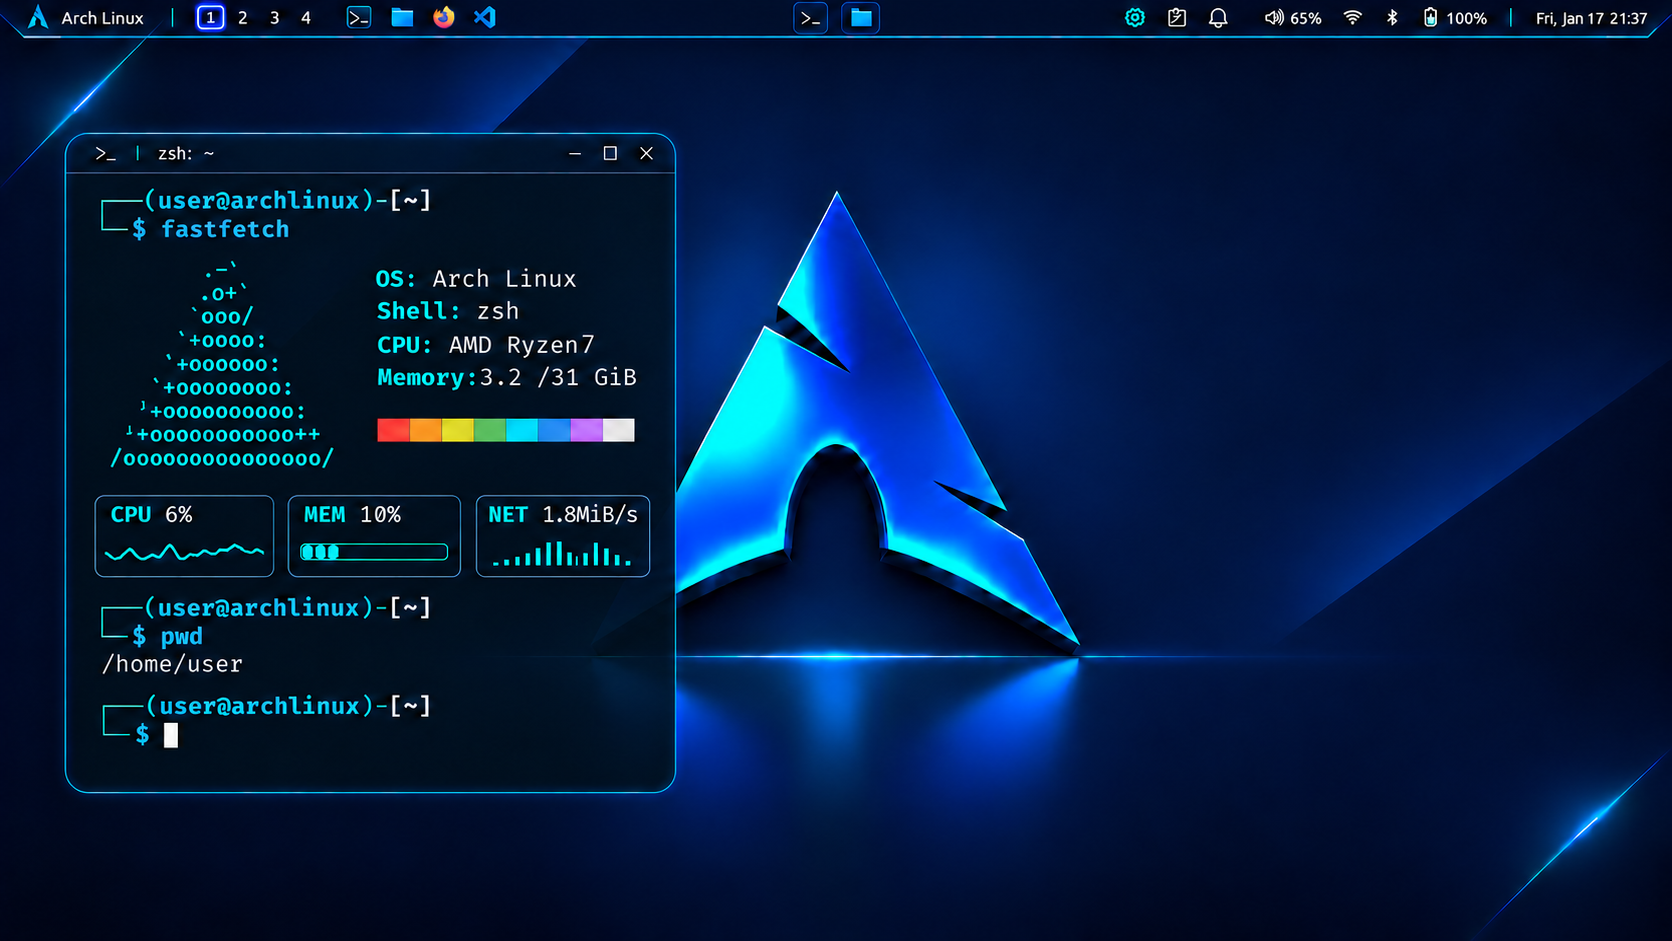
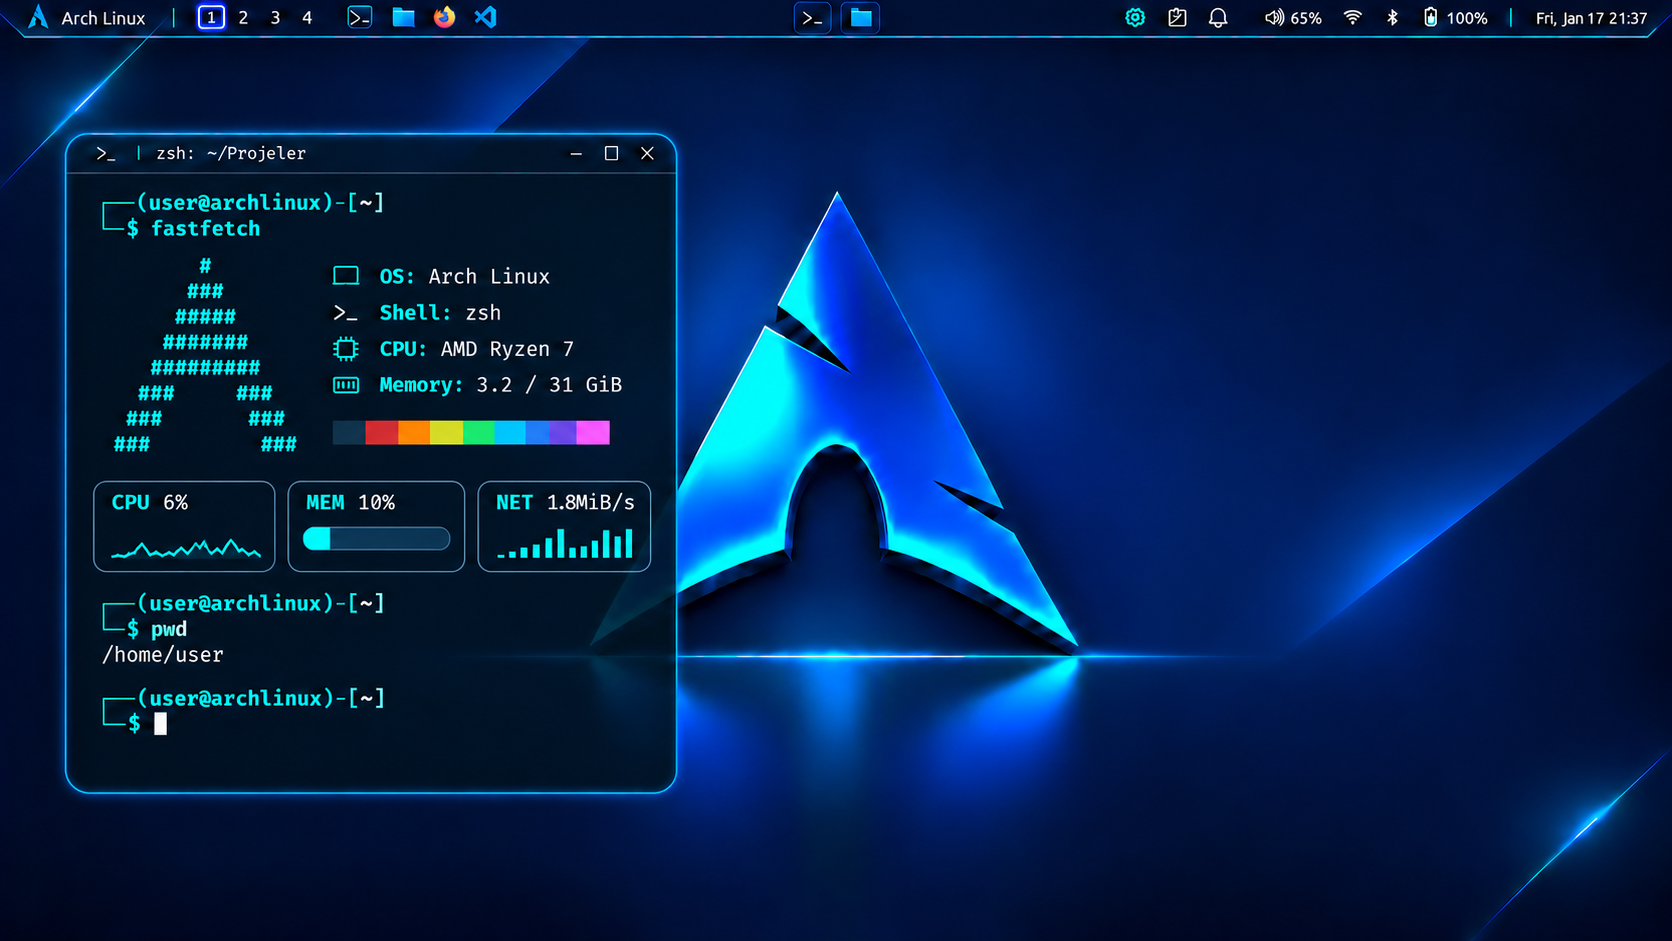
Match window frame lighting to approved reference

diff --git a/README.md b/README.md
@@ -2,7 +2,7 @@
 
 Koyu lacivert Arch masaüstü; üst görev çubuğu, Zsh terminali, Thunar, açılış ve kilit ekranı için onaylı tasarım ve kurulum tanımları.
 
-**Güncel sürüm: v1.0.1.** Güncel kaynak her zaman [`paket/`](paket/) dizinidir. Kurulumu hedef Arch Linux bilgisayarındaki Codex, gerçek masaüstü ve donanımı inceleyerek uygular. Bu repo, kurulumun tamamlandığını gösteren bir sistem imajı veya tek komutluk otomatik yükleyici değildir.
+**Güncel sürüm: v1.0.2.** Güncel kaynak her zaman [`paket/`](paket/) dizinidir. Kurulumu hedef Arch Linux bilgisayarındaki Codex, gerçek masaüstü ve donanımı inceleyerek uygular. Bu repo, kurulumun tamamlandığını gösteren bir sistem imajı veya tek komutluk otomatik yükleyici değildir.
 
 ![Terminal ve Thunar masaüstü önizlemesi](paket/02-onayli-masaustu.png)
 
@@ -22,7 +22,7 @@ Ardından bu klasörde Codex'e [`KURULUM.md`](KURULUM.md) ve `paket/` içindeki 
 
 ## Tasarım ve özellikler
 
-- Terminal ve Thunar: mevcut koyu lacivert zemin, **%80 zemin opaklığı**, tam opak yazı/simgeler ve her kenar/köşede hafif, eşit mavi çerçeve ışığı.
+- Terminal ve Thunar: mevcut koyu lacivert zemin, **%80 zemin opaklığı**, tam opak yazı/simgeler ve son seçilen Thunar görselindeki doygun mavi ince dış kontur ve dar/yumuşak, eşit ışık.
 - Terminal: Fira Code 10 pt, Zsh, iki satırlı dinamik dizin istemi, Kali temelli yazı/çıktı renkleri, geçmiş önerileri ve arama. İnce, yarı saydam, **üçgensiz** bölücüler ve bağımsız bölümler.
 - Üst panel: kesintisiz, tek renk mavi alt çizgi ve aynı mavi eğimli uçlar; beyaz kenar parlaması yok. Açık uygulamalar yalnız kendi simgeleriyle gösterilir, isim/başlık/yol yazılmaz. Dört çalışma alanı, pano geçmişi, bildirimler ve açılır sistem/batarya kutuları korunur. Donanım verileri gerçek ölçülür.
 - Onaylı kısayollar, seçim/kopyalama/yapıştırma davranışları, ekran görüntüsü/kaydı, tema dışa aktarma ve uzun işlem bildirimi.

diff --git a/KURULUM.md b/KURULUM.md
@@ -23,7 +23,7 @@ Gerekli bileşenleri gerçek Arch paket kaynakları ve kurulu sürümlerle doğr
 - Duvar kâğıdı `01`; logo boyutu/konumu ve yansımalar korunur. Üst panel ve açık pencere yerleşimi `02`.
 - Üst panelin alt çizgisi ve eğimli uçları aynı tek renk mavi `#237DB5` olsun; aqua/yeşil renk kayması, kesinti, beyaz uç veya parlama ekleme. Orta bölümde açık uygulamalar yalnız kendi logolarını gösterir; uygulama adı, pencere başlığı veya dizin yolu yazılmaz. Adlar fareyle üzerine gelince ipucunda gösterilir; odak/alta alma/geri getirme ve çoklu pencere erişimi korunur.
 - Terminal dışı `03`, ince ve üçgensiz bölücüler `07/08`, dosya/log ve istem renkleri `08/09`. Fira Code 10 pt ve JSON'daki kesin RGB değerleri uygulanır.
-- Terminal ve Thunar zeminleri %80 opak; metin/simge/grafikler tam opak. Genel pencere soldurması veya içerikte sabit logo resmiyle taklit yok. Çerçeve ışığı kenar/köşelerde hafif ve eşit.
+- Terminal ve Thunar zeminleri %80 opak; metin/simge/grafikler tam opak. Genel pencere soldurması veya içerikte sabit logo resmiyle taklit yok. Dış kontur tonu/ışığı `11`deki son seçilmiş doygun mavi ve dar/yumuşak hale gibi; tüm kenar/köşelerde eşit. `ortak_pencere_stili.dis_kontur_ve_hale` uygulanır. Önceden onaylı istem/çıktı ve iç bölücü renklerini bu düzeltmeyle değiştirme.
 - Thunar `11` gibi gerçek dosyalarla çalışır. Açılış ve giriş/kilit `05/06`; batarya kutusu `10`.
 - Bütün 27 kısayol, bölmeler/sekmeler, geçmiş/arama, Windows benzeri seçim, pano, bildirim/kayıt/dışa aktarma işlevleri uygulanır.
 - Sistem sensörleri/VRAM ve şarj eşikleri gerçek donanım yetenekleriyle doğrulanır; desteklenmeyen özellik için sahte başarı gösterilmez.

diff --git a/AGENTS.md b/AGENTS.md
@@ -9,7 +9,7 @@
 
 ## Onaylı tercihler
 
-- Terminal ve Thunarın mevcut lacivert zemin rengi, %80 zemin opaklığı ve tam opak metin/simgeleri korunur. Çerçeveler hafif ve eşit aydınlık; iç bölücüler yaklaşık 2 px, yarı saydam ve üçgensiz.
+- Terminal ve Thunarın mevcut lacivert zemin rengi, %80 zemin opaklığı ve tam opak metin/simgeleri korunur. Dış çerçeve tonu/ışığı `11` görselindeki gibi doygun mavi, dar/yumuşak ve eşit; kesin değerler `ortak_pencere_stili.dis_kontur_ve_hale` içindedir. Bu düzeltme istem/yazı ve iç bölücü renklerini değiştirmez; iç bölücüler yaklaşık 2 px, yarı saydam ve üçgensiz.
 - Zsh, Fira Code 10 pt, iki satırlı dinamik istem ve kesin renkler JSON'dadır. Git istem modülü veya başarısız komutta ek çarpı/sayı rozeti yok.
 - Üst panel, açılış/kilit, Thunar, bütün kısayollar, pano/kayıt/dışa aktarma, sistem sensörleri ve donanıma bağlı batarya kuralları korunur. Başka bir görünüm tercih edildiğini varsayma.
 - Üst panelin alt çizgisi/eğimli uçları tek renk `#237DB5`, kesintisiz ve beyaz parlamasızdır. Açık uygulamalar yalnız simgeyle gösterilir; isim/başlık/yol etiketleri yok, adlar yalnız hover ipucundadır. Bu kural uygulamaların kendi pencere başlıklarını gizlemez.

diff --git a/CHANGELOG.md b/CHANGELOG.md
@@ -1,5 +1,12 @@
 # Değişiklikler
 
+## v1.0.2 — 2026-11-27
+
+- Terminal ve Thunar dış çerçeve rengi/ışığı, kullanıcının seçtiği Thunar referansına bağlandı: doygun mavi ince kontur, dar/yumuşak ve eşit mavi hale. Sayısal uygulama başlangıç değerleri ve karşılaştırma kapsamı eklendi.
+- Birlikte masaüstü ve tek terminal önizlemeleri eşleştirildi; Thunarın seçilen çerçevesi korundu. 08/09 yalnız terminal içi renk/kullanım referansıdır.
+- Tek terminal önizlemesinin üst panel kenarlarında kalan beyaz/gümüş çizgi parçaları da giderildi; güncel masaüstü/terminal/Thunar önizlemelerinde alt kontur denetlendi.
+- %80 lacivert zemin, bütün yazı/istem renkleri, iç bölücüler, simgeli/parlamasız üst panel, 27 kısayol ve diğer işlevler korundu.
+
 ## v1.0.1 — 2026-11-27
 
 - Üst görev çubuğunun alt çizgisi masaüstüne uyumlu tek renk mavi `#237DB5` olarak tanımlandı; aqua renk kaymaları ve uçlardaki beyaz parlamalar kaldırıldı.
